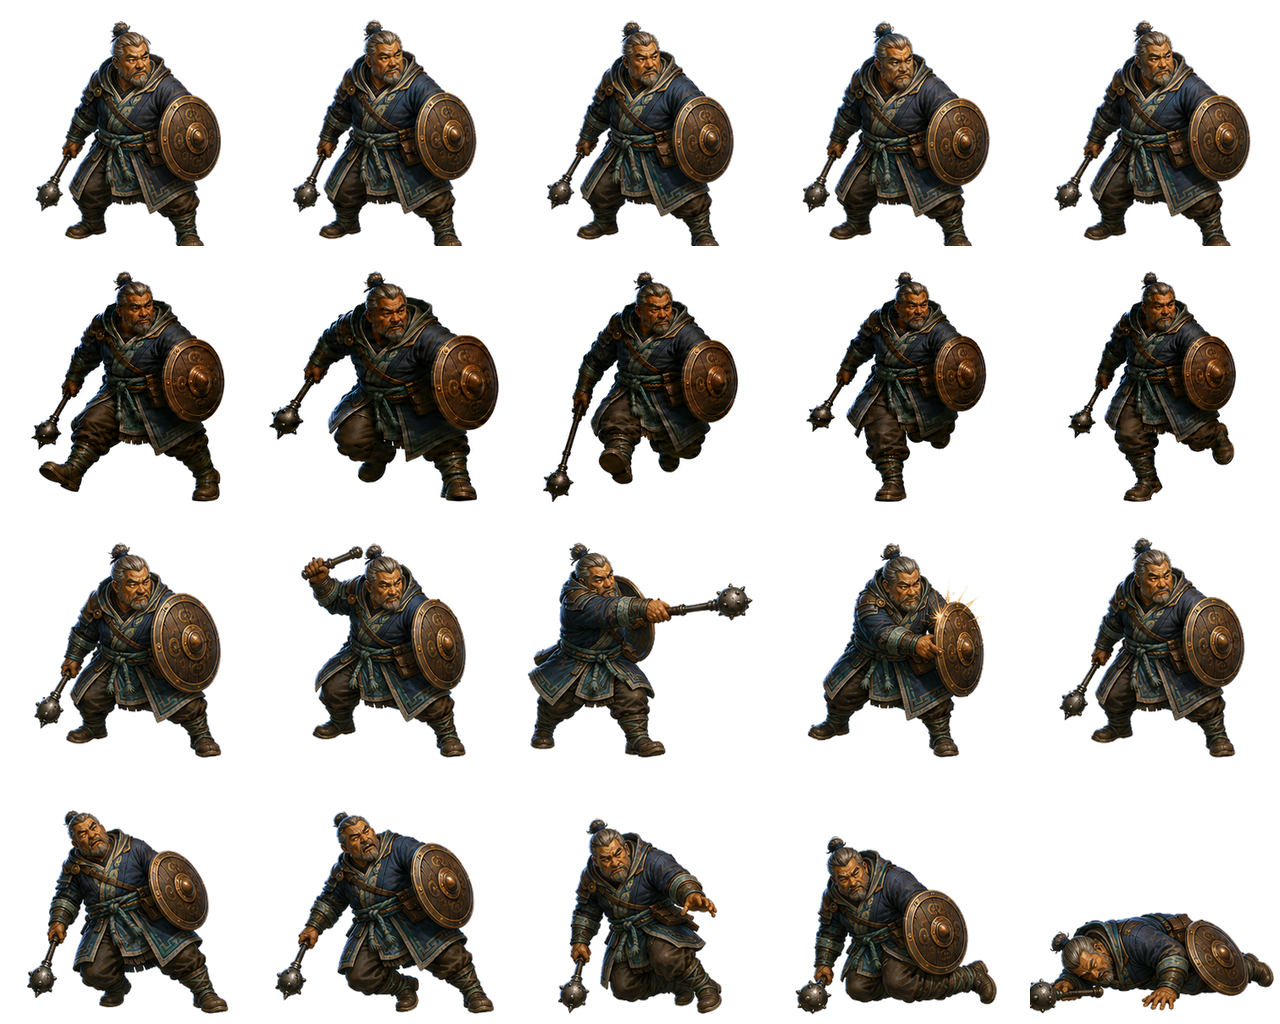
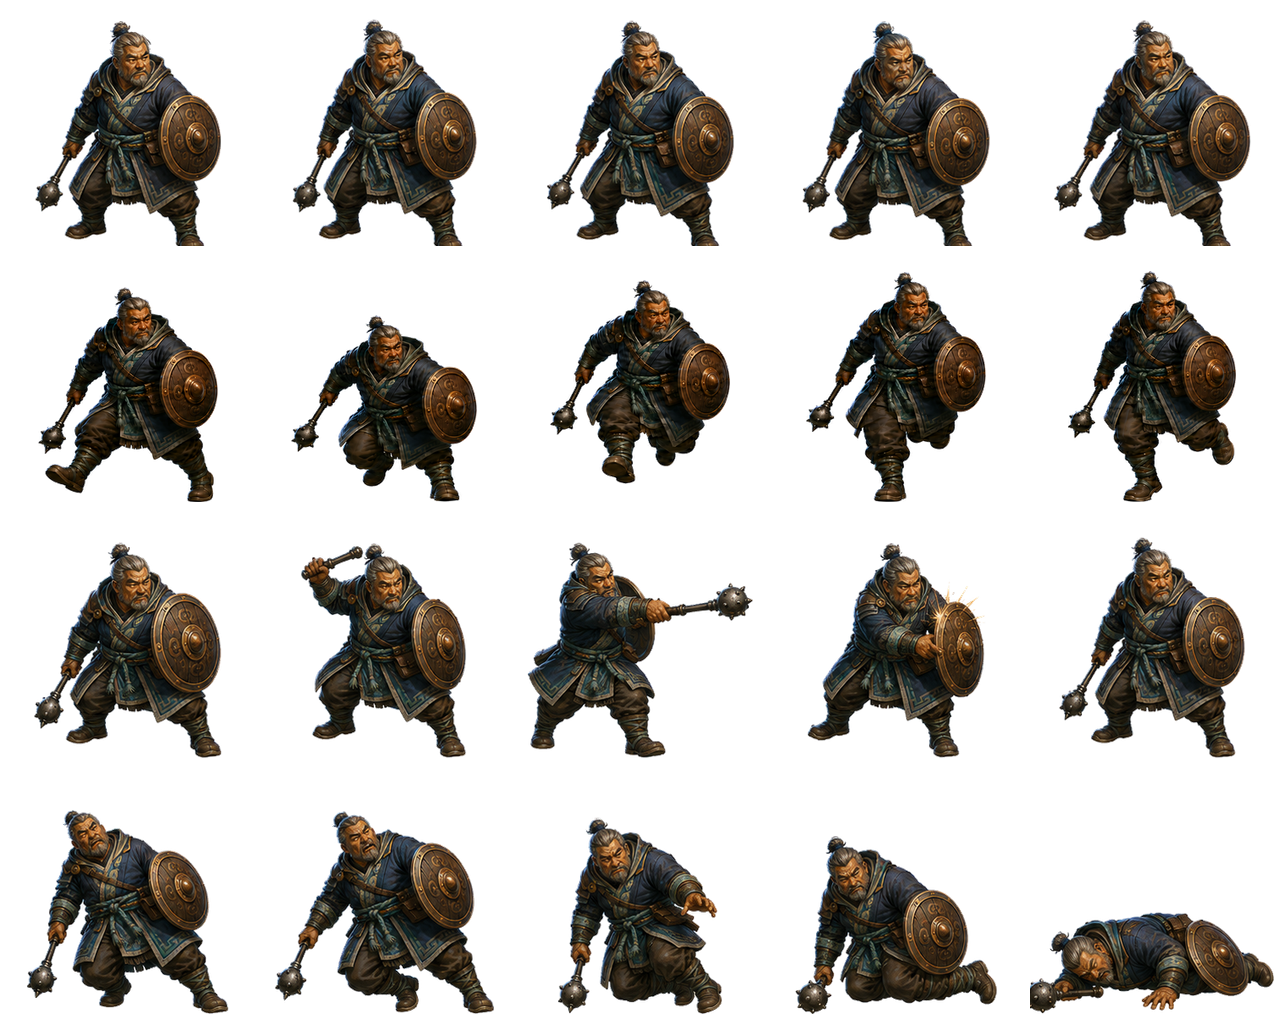
fix(combat): normalize Toma run cycle

diff --git a/.superpowers/sdd/2026-09-04-character-action-animation-contract/task-3-report.md b/.superpowers/sdd/2026-09-04-character-action-animation-contract/task-3-report.md
@@ -19,7 +19,7 @@ Runtime contract: complete 5-by-4 source sheet; five advance frames in playback 
 Output paths and next version: assets/heroes/visuals/realtime-combat-study-v1/animation-canary-v1/iron-guardian/iron-guardian-run-strip-source-v4.png; assets/heroes/visuals/realtime-combat-study-v1/animation-canary-v1/iron-guardian/iron-guardian-motion-sheet-source-v4.png; assets/heroes/visuals/realtime-combat-study-v1/animation-canary-v1/iron-guardian/iron-guardian-motion-support-v4.json; apps/web/static/runtime/combat/realtime-study-v1/animation-canary-v1/iron-guardian/iron-guardian-motion-v4.png; apps/web/static/runtime/combat/realtime-study-v1/animation-canary-v1/iron-guardian/iron-guardian-motion-v4.json; apps/web/static/runtime/combat/realtime-study-v1/animation-canary-v1/iron-guardian/iron-guardian-motion-manifest-v4.json; all new artifacts are version 4 with status candidate.
 ```
 
-## Generation record
+## Initial generation record (superseded after independent review)
 
 - Mode: built-in Codex image generation. The five poses were generated as one horizontal temporal
   strip from the accepted v3 motion sheet, accepted identity cutout, and the repository-owned
@@ -71,7 +71,7 @@ Source-resolution visual inspection:
   shadow, floor ellipse, scenery, text, mirroring, equipment swap, duplicate silhouette, or extra
   limb is visible.
 
-## Assembly, validation, and evidence
+## Initial assembly, validation, and evidence (superseded after independent review)
 
 Compose command:
 
@@ -147,7 +147,7 @@ Runtime review: the five 256-pixel atlas cells were reviewed side-by-side at the
 manifest's 10 fps (100 ms per frame). The contacts, airborne beat, equipment sides, and frame-5 to
 frame-1 recovery remain readable at gameplay scale.
 
-## Files
+## Initial files (superseded hashes)
 
 | File | SHA-256 |
 | --- | --- |
@@ -160,7 +160,7 @@ frame-1 recovery remain readable at gameplay scale.
 | `assets/heroes/visuals/realtime-combat-study-v1/PROVENANCE.md` | updated with complete v4 provenance |
 | `.superpowers/sdd/2026-09-04-character-action-animation-contract/task-3-report.md` | this report |
 
-## Self-review and concerns
+## Initial self-review and concerns
 
 - Acceptance gates passed: five unique poses, visible `left, left, none, right, right` anatomy,
   frame-3 air under both boots, opposite frame-4 contact, distinct frame-1/frame-4 silhouettes,
@@ -172,3 +172,118 @@ frame-1 recovery remain readable at gameplay scale.
 - No runtime consumer was switched from v3 to v4; this deliverable is intentionally a `candidate`
   pack until owner approval. The owner should judge run cadence, the low-mace airborne silhouette,
   and the frame-5 to frame-1 seam in the combat scene before promotion.
+
+## Independent-review correction
+
+The independent review returned `CHANGES REQUIRED` for two visible defects in the first submission:
+
+1. Frame 3's mace reached the plant baseline and read as an elongated, ground-dragging pole rather
+   than Toma's compact mace.
+2. Independent per-cell fit scaling enlarged compressed poses and shrank extended poses, producing a
+   visible body/shield scale change, especially across the frame-5 to frame-1 seam.
+
+The correction stays within Task 3 and version 4. No stage integration or v1-v3 artifact changed.
+
+### Corrected selected original and prompt
+
+- Mode: built-in Codex image-generation precise-object edit. The corrected v4 selects the earlier
+  passing temporal strip before the rejected mace-extension edit; its compact canonical mace and all
+  five support poses are intact.
+- Selected generation original ID: `exec-3855ea8f-2aeb-4216-9722-52bd21d332ed.png`.
+- Selected generation original path:
+  `/home/joao/.codex/generated_images/01a06e0d-7dcd-7101-a64f-ae9d9ce48ea0/exec-3855ea8f-2aeb-4216-9722-52bd21d332ed.png`.
+- Selected original/project-strip SHA-256:
[1 lines of base64/hex data omitted]
+- The superseded elongated-mace original was moved to recoverable trash. Only the selected original
+  remains in the active Codex generation directory.
+
+Exact prompt that produced the corrected selected original:
+
+```text
+Use case: precise-object-edit
+Asset type: production source strip for a five-frame game-character run animation
+Primary request: Edit Image 1 using Image 2 only as a spatial annotation guide. In the FIRST/LEFTMOST cell only: lift and bend backward the boot circled RED and labeled LIFT THIS in Image 2, leaving a large clear band of white below its entire sole. Lower and flatten the boot circled GREEN and labeled PLANT so it alone bears Toma's weight on the shared baseline. Remove all guide circles, arrows, and text; none may appear in the result.
+Input images: Image 1 is the clean edit target. Image 2 is an annotation guide only. Image 3 is Toma's accepted v3 design/camera/style reference. Image 4 is Toma's accepted identity reference.
+Preserve cells 2, 3, 4, and 5 exactly. Preserve every other part of cell 1 unchanged. The final strip must visibly read: cell 1 shield-side/anatomical-left foot only; cell 2 shield-side/anatomical-left foot only; cell 3 neither foot with white air under both boots; cell 4 mace-side/anatomical-right foot only; cell 5 mace-side/anatomical-right foot only.
+Constraints: pure uniform white matte; no shadow or ground mark; exact face, gray topknot, beard, stocky proportions, navy-and-teal armor, left bronze shield, right mace, handedness, camera, scale, lighting, full-body clearance, and painterly 2.5D finish.
+Avoid: guide graphics or text in output; changes outside the circled boots/legs in cell 1; shadows; scenery; dividers; crop; mirroring; equipment changes; extra/missing limbs; identity/style drift.
+```
+
+### Corrected v4 registration pipeline
+
+The required row composer was run first against the compact-mace strip. A deterministic v4-only
+normalization pass then replaced only zero-based row 1 from the same generated cells:
+
+- trim all five white-matte cells without altering their pixels;
+- compute one shared fit scale from the largest generated cell and the 280/281×281 target cells;
+- apply the same `0.6039823008849557` scale to all five poses instead of fitting each independently;
+- center each pose horizontally with 4 pixels of cell padding;
+- bottom-register support frames and position source frame 3 18 pixels above that baseline;
+- build the standard v4 pack with `commonScale: 0.8472222222222222`;
+- translate only runtime `iron-guardian-advance-03` upward 18 pixels inside its existing transparent
+  256×256 atlas cell, preserving the manifest anchor and a visible no-support gap.
+
+The compact mace remains entirely above the runtime baseline. No equipment pixel is used as a ground
+or registration anchor.
+
+Generated source-cell sizes before shared scaling were `352×421`, `362×366`, `352×399`, `352×451`,
+and `327×452`. Corrected rendered sizes are `213×254`, `219×221`, `213×241`, `213×272`, and
+`198×273`; these differences reflect pose extents while every cell uses the same scale.
+
+At runtime, alpha-bound widths changed from the rejected submission's `194, 230, 195, 181, 168` to
+`180, 186, 180, 180, 168`. More importantly, detected shield heights are now
+`76, 72, 77, 75, 74` pixels: the frame-5 to frame-1 shield-size change is 2 pixels. The remaining
+12-pixel overall-width change at that seam is the authored recovery-to-wide-contact stride, not a
+body-scale change.
+
+### Corrected evidence and hashes
+
+Decoded raw-pixel preservation remains exact:
+
+| One-based row | v3 decoded raw SHA-256 | Corrected v4 decoded raw SHA-256 | Equal |
+| --- | --- | --- | --- |
[3 lines of base64/hex data omitted]
+
+Corrected assembled source run-cell SHA-256 values in playback order:
+
[5 lines of base64/hex data omitted]
+
+All five remain distinct lowercase hashes. The evidence file was rewritten with the required
+`JSON.stringify` construction and remains `candidate` with authority `classical-human-run-5` and
+support `left, left, none, right, right`.
+
+| Current file | SHA-256 |
+| --- | --- |
[6 lines of base64/hex data omitted]
+
+### Corrected validation and visual review
+
+The exact validator command returned:
+
+```json
+{"valid":true,"actorId":"iron-guardian","frames":20,"atlasPath":"apps/web/static/runtime/combat/realtime-study-v1/animation-canary-v1/iron-guardian/iron-guardian-motion-v4.png"}
+```
+
+`node --test tools/validate-realtime-combat-motion-pack.spec.mjs` passed all 9 tests with 0 failures.
+
+A corrected 184-pixel contact sheet and 15-page temporary GIF were inspected at the manifest's 10
+fps, covering three complete loops. The visible support remains exactly left, left, none, right,
+right. Frame 3 retains clear air below both boots and a compact freely carried mace; frame 4 lands on
+the opposite foot; frames 1 and 4 remain distinct; handedness, identity, camera, and matte remain
+stable. No body/shield scale snap, baked shadow, scenery, text, or extra limb was observed.
+
+Remaining visual concern: frame 2's compression is intentionally much lower than the other poses,
+so its overall bounds contract despite constant body scale. The corrected shield metrics and
+three-loop playback read this as weight loading, but owner judgment on that cadence remains the main
+candidate-review question. Task 4 integration remains untouched.

diff --git a/assets/heroes/visuals/realtime-combat-study-v1/PROVENANCE.md b/assets/heroes/visuals/realtime-combat-study-v1/PROVENANCE.md
@@ -217,26 +217,34 @@ reproducible and do not depend on Codex-managed temporary storage.
[1 lines of base64/hex data omitted]
 - Action authority: `classical-human-run-5`; visible support sequence: `left, left, none, right,
   right`.
-- Selected generation original: `exec-bd79d1ad-def1-42ec-9f2c-8ba3d35668d1.png`
[1 lines of base64/hex data omitted]
+- Independent review rejected the first v4 submission because its frame-3 mace was elongated to the
+  plant baseline and the per-cell source normalization caused visible scale variation. That
+  submission is superseded and not retained as the project strip.
+- Selected generation original: `exec-3855ea8f-2aeb-4216-9722-52bd21d332ed.png`
[1 lines of base64/hex data omitted]
 - Project strip: `animation-canary-v1/iron-guardian/iron-guardian-run-strip-source-v4.png`
[2 lines of base64/hex data omitted]
 - Project sheet: `animation-canary-v1/iron-guardian/iron-guardian-motion-sheet-source-v4.png`
[2 lines of base64/hex data omitted]
+- Support evidence: `animation-canary-v1/iron-guardian/iron-guardian-motion-support-v4.json`
[1 lines of base64/hex data omitted]
 - Runtime atlas: `../../../../apps/web/static/runtime/combat/realtime-study-v1/animation-canary-v1/iron-guardian/iron-guardian-motion-v4.png`
[2 lines of base64/hex data omitted]
 - Mode: built-in Codex image generation, with the five poses authored as one temporal strip from the
   v3 sheet, identity cutout, and repository action diagram, followed by bounded built-in
-  precise-object edits to make the visible contact anatomy survive deterministic bottom alignment.
+  precise-object edits. Final assembly applies one common source scale to all five generated cells;
+  frame 3 receives an 18-pixel white source gap and a v4-only 18-pixel upward translation inside its
+  transparent runtime cell after the standard build. Equipment is not used as a registration anchor.
 - Exact final prompt:
 
   ```text
   Use case: precise-object-edit
   Asset type: production source strip for a five-frame game-character run animation
-  Primary request: Change only Toma's right arm and mace in the CENTER/THIRD airborne cell of Image 1. Swing his right arm down naturally during flight so the complete mace head hangs substantially LOWER than both airborne boot soles, while remaining firmly gripped in his right hand. The mace head must be the lowest non-white point in cell 3, with at least a full boot-height of uninterrupted white visible below both boots before the level of the mace head. This low hanging mace preserves visible air under both feet when the cell is bottom-aligned during deterministic sheet assembly.
-  Preserve all five leg poses exactly. Preserve cells 1, 2, 4, and 5 unchanged. Cell 1 and 2 keep the shield-side/anatomical-left foot support; cell 3 keeps NEITHER boot planted; cells 4 and 5 keep mace-side/anatomical-right foot support. Preserve the opposite-contact silhouettes in cells 1 and 4.
-  Invariants: exact Toma identity, gray topknot, beard, stocky adult proportions, navy-and-teal armor, bronze shield on left arm, same compact mace in right hand, handedness, steep three-quarter up-field camera, body scale, lighting, pure uniform white matte, full-body/equipment clearance, and painterly 2.5D finish.
-  Avoid: changing the airborne legs or boot positions; adding any ground line, cast/contact shadow, ground ellipse or floor mark; changing other cells; scenery; text; dividers; crop; mirrored or swapped equipment; extra/missing limbs; identity/costume/camera/scale/lighting drift.
+  Primary request: Edit Image 1 using Image 2 only as a spatial annotation guide. In the FIRST/LEFTMOST cell only: lift and bend backward the boot circled RED and labeled LIFT THIS in Image 2, leaving a large clear band of white below its entire sole. Lower and flatten the boot circled GREEN and labeled PLANT so it alone bears Toma's weight on the shared baseline. Remove all guide circles, arrows, and text; none may appear in the result.
+  Input images: Image 1 is the clean edit target. Image 2 is an annotation guide only. Image 3 is Toma's accepted v3 design/camera/style reference. Image 4 is Toma's accepted identity reference.
+  Preserve cells 2, 3, 4, and 5 exactly. Preserve every other part of cell 1 unchanged. The final strip must visibly read: cell 1 shield-side/anatomical-left foot only; cell 2 shield-side/anatomical-left foot only; cell 3 neither foot with white air under both boots; cell 4 mace-side/anatomical-right foot only; cell 5 mace-side/anatomical-right foot only.
+  Constraints: pure uniform white matte; no shadow or ground mark; exact face, gray topknot, beard, stocky proportions, navy-and-teal armor, left bronze shield, right mace, handedness, camera, scale, lighting, full-body clearance, and painterly 2.5D finish.
+  Avoid: guide graphics or text in output; changes outside the circled boots/legs in cell 1; shadows; scenery; dividers; crop; mirroring; equipment changes; extra/missing limbs; identity/style drift.
   ```
 
 - Row preservation after decoded raw-pixel extraction: one-based row 1 is identical between v3 and
@@ -247,8 +255,11 @@ reproducible and do not depend on Codex-managed temporary storage.
   retain shield-side left support; frame 3 has neither boot planted and clear white below both soles;
   frame 4 lands on the mace-side right foot in a silhouette distinct from frame 1; frame 5 recovers
   over that right foot toward the loop return. Toma retains his face, gray topknot, beard, stocky
-  proportions, navy-and-teal armor, left bronze shield, right mace, camera, and white matte. No baked
-  shadow, scenery, text, mirror, equipment swap, or extra limb was observed at source or runtime size.
+  proportions, navy-and-teal armor, left bronze shield, compact right mace, camera, and white matte.
+  Runtime shield heights are `76, 72, 77, 75, 74` pixels; frame-5 to frame-1 shield-size change is 2
+  pixels, while overall alpha width changes from 168 to 180 pixels because the contact pose opens its
+  stride. No scale snap, ground-dragging weapon, baked shadow, scenery, text, mirror, equipment swap,
+  or extra limb was observed in the 184-pixel, three-loop review.
 - Build command/result: `node tools/build-realtime-combat-motion-pack.mjs --actor iron-guardian
   --input assets/heroes/visuals/realtime-combat-study-v1/animation-canary-v1/iron-guardian/iron-guardian-motion-sheet-source-v4.png
   --out-dir apps/web/static/runtime/combat/realtime-study-v1/animation-canary-v1/iron-guardian
